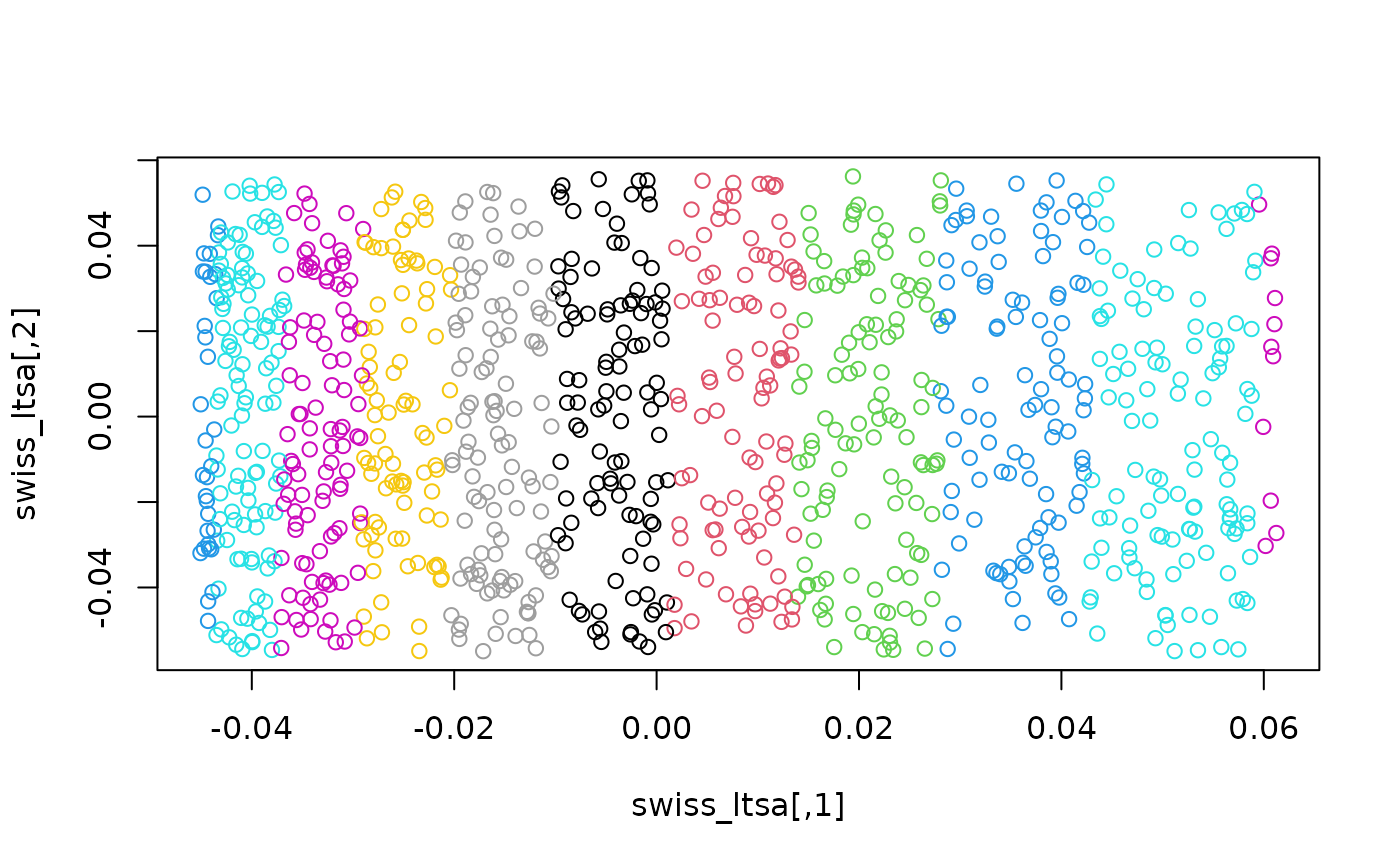
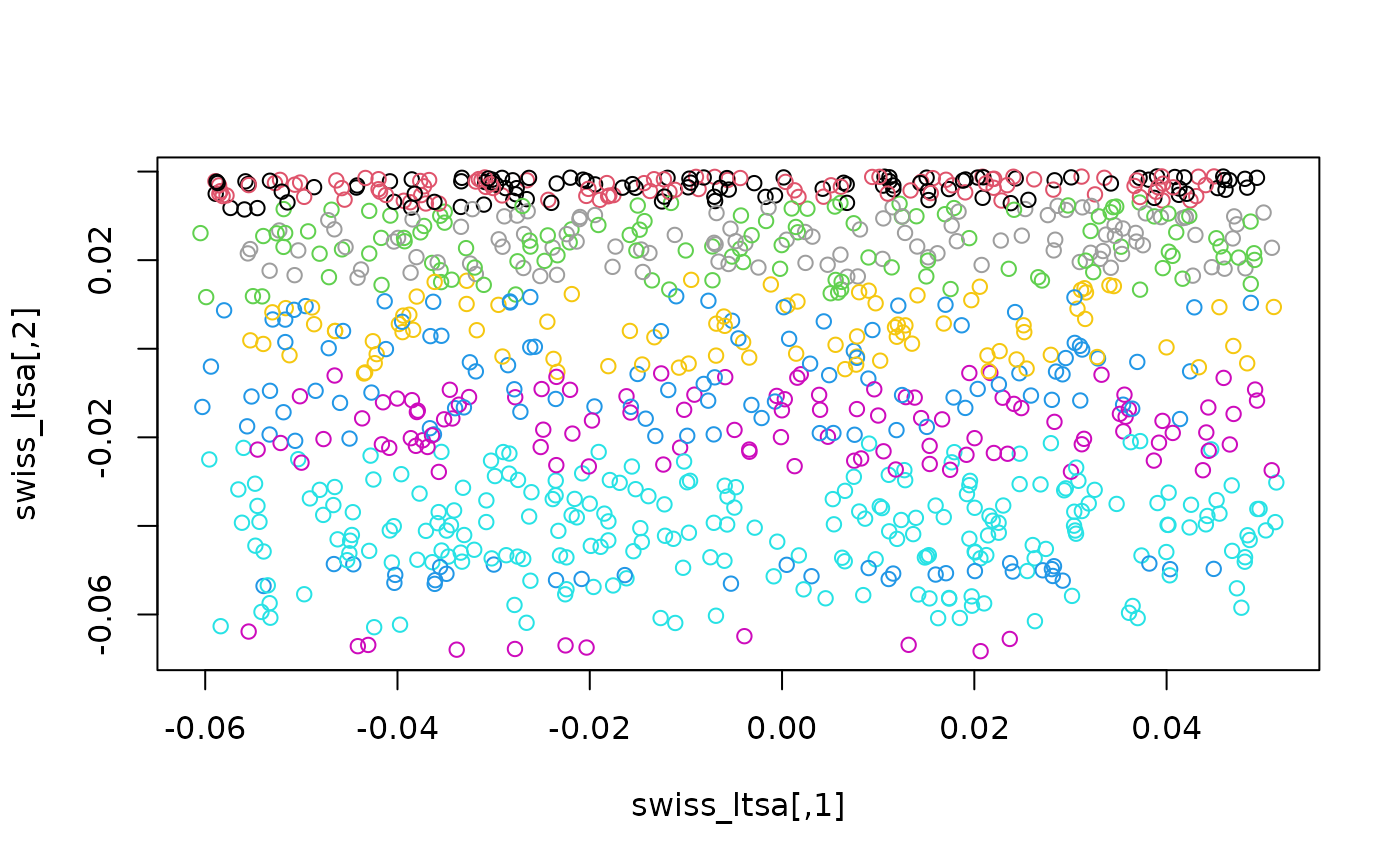
Deploying to gh-pages from @ jlmelville/flotsam@29c9ebd6ee8cff15cb02c2cbab4824aaa4ad3809 🚀

diff --git a/reference/flotsam-package.html b/reference/flotsam-package.html
@@ -1,0 +1,81 @@
+<!DOCTYPE html>
+<!-- Generated by pkgdown: do not edit by hand --><html lang="en"><head><meta http-equiv="Content-Type" content="text/html; charset=UTF-8"><meta charset="utf-8"><meta http-equiv="X-UA-Compatible" content="IE=edge"><meta name="viewport" content="width=device-width, initial-scale=1, shrink-to-fit=no"><title>flotsam: Local Tangent Space Alignment — flotsam-package • flotsam</title><script src="../deps/jquery-3.6.0/jquery-3.6.0.min.js"></script><meta name="viewport" content="width=device-width, initial-scale=1, shrink-to-fit=no"><link href="../deps/bootstrap-5.3.8/bootstrap.min.css" rel="stylesheet"><script src="../deps/bootstrap-5.3.8/bootstrap.bundle.min.js"></script><link href="../deps/font-awesome-6.5.2/css/all.min.css" rel="stylesheet"><link href="../deps/font-awesome-6.5.2/css/v4-shims.min.css" rel="stylesheet"><script src="../deps/headroom-0.11.0/headroom.min.js"></script><script src="../deps/headroom-0.11.0/jQuery.headroom.min.js"></script><script src="../deps/bootstrap-toc-1.0.1/bootstrap-toc.min.js"></script><script src="../deps/clipboard.js-2.0.11/clipboard.min.js"></script><script src="../deps/search-1.0.0/autocomplete.jquery.min.js"></script><script src="../deps/search-1.0.0/fuse.min.js"></script><script src="../deps/search-1.0.0/mark.min.js"></script><!-- pkgdown --><script src="../pkgdown.js"></script><meta property="og:title" content="flotsam: Local Tangent Space Alignment — flotsam-package"><meta name="description" content="flotsam implements Local Tangent Space Alignment (LTSA) for nonlinear
+dimensionality reduction."><meta property="og:description" content="flotsam implements Local Tangent Space Alignment (LTSA) for nonlinear
+dimensionality reduction."></head><body>
+    <a href="#main" class="visually-hidden-focusable">Skip to contents</a>
+
+
+    <nav class="navbar navbar-expand-lg fixed-top bg-light" data-bs-theme="light" aria-label="Site navigation"><div class="container">
+
+    <a class="navbar-brand me-2" href="../index.html">flotsam</a>
+
+    <small class="nav-text text-muted me-auto" data-bs-toggle="tooltip" data-bs-placement="bottom" title="">0.0.0.9001</small>
+
+
+    <button class="navbar-toggler" type="button" data-bs-toggle="collapse" data-bs-target="#navbar" aria-controls="navbar" aria-expanded="false" aria-label="Toggle navigation">
+      <span class="navbar-toggler-icon"></span>
+    </button>
+
+    <div id="navbar" class="collapse navbar-collapse ms-3">
+      <ul class="navbar-nav me-auto"><li class="active nav-item"><a class="nav-link" href="../reference/index.html">Reference</a></li>
+<li class="nav-item"><a class="nav-link" href="../news/index.html">Changelog</a></li>
+      </ul><ul class="navbar-nav"><li class="nav-item"><form class="form-inline" role="search">
+ <input class="form-control" type="search" name="search-input" id="search-input" autocomplete="off" aria-label="Search site" placeholder="Search for" data-search-index="../search.json"></form></li>
+<li class="nav-item"><a class="external-link nav-link" href="https://github.com/jlmelville/flotsam/" aria-label="GitHub"><span class="fa fab fa-github fa-lg"></span></a></li>
+      </ul></div>
+
+
+  </div>
+</nav><div class="container template-reference-topic">
+<div class="row">
+  <main id="main" class="col-md-9"><div class="page-header">
+
+      <h1>flotsam: Local Tangent Space Alignment</h1>
+      <small class="dont-index">Source: <a href="https://github.com/jlmelville/flotsam/blob/main/R/flotsam-package.R" class="external-link"><code>R/flotsam-package.R</code></a></small>
+      <div class="d-none name"><code>flotsam-package.Rd</code></div>
+    </div>
+
+    <div class="ref-description section level2">
+    <p><code>flotsam</code> implements Local Tangent Space Alignment (LTSA) for nonlinear
+dimensionality reduction.</p>
+    </div>
+
+
+    <div class="section level2">
+    <h2 id="details">Details<a class="anchor" aria-label="anchor" href="#details"></a></h2>
+    <p>The main entry point is <code><a href="ltsa.html">ltsa()</a></code>. It accepts numeric matrices and data frames
+with observations in rows.</p>
+    </div>
+    <div class="section level2">
+    <h2 id="see-also">See also<a class="anchor" aria-label="anchor" href="#see-also"></a></h2>
+    <div class="dont-index"><p>Useful links:</p><ul><li><p><a href="https://jlmelville.github.io/flotsam/">https://jlmelville.github.io/flotsam/</a></p></li>
+<li><p><a href="https://github.com/jlmelville/flotsam" class="external-link">https://github.com/jlmelville/flotsam</a></p></li>
+<li><p>Report bugs at <a href="https://github.com/jlmelville/flotsam/issues" class="external-link">https://github.com/jlmelville/flotsam/issues</a></p></li>
+</ul></div>
+    </div>
+    <div class="section level2">
+    <h2 id="author">Author<a class="anchor" aria-label="anchor" href="#author"></a></h2>
+    <p><strong>Maintainer</strong>: James Melville <a href="mailto:[email redacted]">[email redacted]</a> [copyright holder]</p>
+<p>Authors:</p><ul><li><p>James Melville <a href="mailto:[email redacted]">[email redacted]</a> [copyright holder]</p></li>
+</ul></div>
+
+  </main><aside class="col-md-3"><nav id="toc" aria-label="Table of contents"><h2>On this page</h2>
+    </nav></aside></div>
+
+
+    <footer><div class="pkgdown-footer-left">
+  <p>Developed by James Melville.</p>
+</div>
+
+<div class="pkgdown-footer-right">
+  <p>Site built with <a href="https://pkgdown.r-lib.org/" class="external-link">pkgdown</a> 2.2.0.</p>
+</div>
+
+    </footer></div>
+
+
+
+
+
+  </body></html>
+

diff --git a/index.html b/index.html
@@ -22,7 +22,7 @@
 
     <a class="navbar-brand me-2" href="index.html">flotsam</a>
 
-    <small class="nav-text text-muted me-auto" data-bs-toggle="tooltip" data-bs-placement="bottom" title="">0.0.0.9000</small>
+    <small class="nav-text text-muted me-auto" data-bs-toggle="tooltip" data-bs-placement="bottom" title="">0.0.0.9001</small>
 
 
     <button class="navbar-toggler" type="button" data-bs-toggle="collapse" data-bs-target="#navbar" aria-controls="navbar" aria-expanded="false" aria-label="Toggle navigation">
@@ -106,23 +106,24 @@
 <div class="section level2">
 <h2 id="current-status">Current Status<a class="anchor" aria-label="anchor" href="#current-status"></a>
 </h2>
+<p><em>June 14 2026</em>: Version 0.0.0.9001 changes the <code>B</code> matrix assembly implementation to be modestly faster with slightly less peak memory usage.</p>
 <p>Very experimental. Will it ever graduate from ‘Finicky’ to ‘Fast’? Its speed relies on the interaction of:</p>
 <ul>
 <li>Using approximate nearest neighbors to define the local neighborhoods.</li>
 <li>Using a <a href="https://cran.r-project.org/package=Matrix" class="external-link">sparse matrix</a> representation of <code>B</code>.</li>
-<li>Using truncated SVD via <a href="https://cran.r-project.org/package=irlba" class="external-link">irlba</a> to calculate <code>W</code>.</li>
-<li>Using <a href="https://cran.r-project.org/package=RSpectra" class="external-link">RSpectra</a> to efficiently get the bottom eigenvectors of <code>B</code>.</li>
+<li>Using R-level dense SVD or truncated SVD via <a href="https://cran.r-project.org/package=irlba" class="external-link">irlba</a> to calculate local neighborhood weights.</li>
+<li>Using <a href="https://cran.r-project.org/package=RSpectra" class="external-link">RSpectra</a> by default to recover the small-eigenvalue directions of <code>B</code>.</li>
 </ul>
-<p>It’s not a great idea to use large values of <code>k</code> to define the neighborhoods: you will get something that approaches a “global” SVD/PCA at much greater effort. If you insist on doing this (e.g. set <code>n_neighbors = 1000</code>), the initial sparse matrix allocation can be surprisingly slow.</p>
+<p>It’s not a great idea to use large values of <code>k</code> to define the neighborhoods: you will get something that approaches a “global” SVD/PCA at much greater effort. If you insist on doing this (e.g. set <code>n_neighbors = 1000</code>), the local weight calculation and sparse matrix assembly both scale with the number of neighborhood entries, roughly <code>N * k * k</code>.</p>
 <p>The approximate nearest neighbor search (which can be exact if you want) <em>is</em> parallelized, but that’s the only thing that is.</p>
-<p>The other bottleneck is the truncated SVD for each <code>W</code>. This <em>could</em> be done in parallel, but I haven’t got round to it yet. The better your <a href="https://csantill.github.io/RPerformanceWBLAS/" class="external-link">underlying linear algebra library</a>, the better a time you will have.</p>
-<p>The final eigendecomposition of <code>B</code> can’t be done in parallel, but RSpectra is fast when it works. Please note that there a variety of failure states:</p>
+<p>The local SVD for each neighborhood is still computed from R, and the sparse matrix assembly path is serial. The better your <a href="https://csantill.github.io/RPerformanceWBLAS/" class="external-link">underlying linear algebra library</a>, the better a time you will have.</p>
+<p>The <code>n_threads</code> argument does not control the final eigenanalysis. RSpectra is fast when it works, but there are a variety of failure states:</p>
 <ul>
-<li>RSpectra doesn’t converge. You’ll see an error if this happens. This can be due to a bad choice of options, like the <code>tol</code> (the tolerance) or <code>ncv</code> (the number of Lanczos basis vectors).</li>
+<li>The solver doesn’t converge. You’ll see an <code>Eigenanalysis failed: ...</code> error that keeps the underlying solver message. This can be due to a bad choice of options, like <code>tol</code> (the tolerance), <code>ncv</code> (the number of Lanczos basis vectors for RSpectra), or equivalent controls for the selected solver.</li>
 <li>RSpectra does converge, but provides results that look weird. This could also be due to insufficiently tight convergence criteria. Some <code>B</code> matrices have several eigenvectors with very very similar eigenvalues, which will then be returned in the wrong order.</li>
 <li>RSpectra hangs, doing nothing, very slowly increasing its memory usage. This seems to happen <a href="https://github.com/yixuan/spectra/issues/126" class="external-link">during sparse factorization</a>. Unfortunately, I don’t have a solution for this.</li>
 </ul>
-<p>If you use <code>eig_method = "irlba"</code> or <code>eig_method = "svdr"</code> then different functions in irlba will be used instead of RSpectra. These are more likely to finish their calculations successfully under circumstances where RSpectra stalls, but they can require a lot more effort to give similarly converged results in other scenarios. For the same amount of CPU time, the <code>svdr</code> setting may do the better than <code>irlba</code> if you suspect there are several eigenvectors with very similar eigenvalues and the ordering is incorrect (don’t ask me how you would diagnose that in general however).</p>
+<p>If you use <code>eig_method = "irlba"</code> or <code>eig_method = "svdr"</code> then different functions in irlba will be used instead of RSpectra. These are more likely to finish their calculations successfully under circumstances where RSpectra stalls, but they can require a lot more effort to give similarly converged results in other scenarios. For the same amount of CPU time, the <code>svdr</code> setting may do better than <code>irlba</code> if you suspect there are several eigenvectors with very similar eigenvalues and the ordering is incorrect (don’t ask me how you would diagnose that in general however). For small diagnostic cases, <code>eig_method = "eig"</code> and <code>eig_method = "eigen"</code> are synonyms for base <code><a href="https://rdrr.io/r/base/eigen.html" class="external-link">eigen()</a></code>, and <code>eig_method = "fullsvd"</code> uses base <code><a href="https://rdrr.io/r/base/svd.html" class="external-link">svd()</a></code>.</p>
 </div>
 <div class="section level2">
 <h2 id="see-also">See Also<a class="anchor" aria-label="anchor" href="#see-also"></a>
@@ -182,6 +183,7 @@
 <h2 data-toc-skip>Dev status</h2>
 <ul class="list-unstyled">
 <li><a href="https://github.com/jlmelville/flotsam/actions/workflows/R-CMD-check.yaml" class="external-link"><img src="https://github.com/jlmelville/flotsam/actions/workflows/R-CMD-check.yaml/badge.svg" alt="R-CMD-check"></a></li>
+<li><a href="https://github.com/jlmelville/flotsam/actions/workflows/air.yaml" class="external-link"><img src="https://github.com/jlmelville/flotsam/actions/workflows/air.yaml/badge.svg" alt="air"></a></li>
 <li><a href="https://github.com/jlmelville/flotsam/actions/workflows/lint.yaml" class="external-link"><img src="https://github.com/jlmelville/flotsam/actions/workflows/lint.yaml/badge.svg" alt="lint"></a></li>
 <li><a href="https://app.codecov.io/gh/jlmelville/flotsam?branch=main" class="external-link"><img src="https://codecov.io/gh/jlmelville/flotsam/branch/main/graph/badge.svg" alt="Codecov test coverage"></a></li>
 </ul>

diff --git a/news/index.html b/news/index.html
@@ -7,7 +7,7 @@
 
     <a class="navbar-brand me-2" href="../index.html">flotsam</a>
 
-    <small class="nav-text text-muted me-auto" data-bs-toggle="tooltip" data-bs-placement="bottom" title="">0.0.0.9000</small>
+    <small class="nav-text text-muted me-auto" data-bs-toggle="tooltip" data-bs-placement="bottom" title="">0.0.0.9001</small>
 
 
     <button class="navbar-toggler" type="button" data-bs-toggle="collapse" data-bs-target="#navbar" aria-controls="navbar" aria-expanded="false" aria-label="Toggle navigation">
@@ -33,10 +33,17 @@
     </div>
 
     <div class="section level2">
+<h2 class="pkg-version" data-toc-text="0.0.0.9001" id="flotsam-0009001">flotsam 0.0.0.9001<a class="anchor" aria-label="anchor" href="#flotsam-0009001"></a></h2>
+<ul><li>Replaced the old sparse slot-search LTSA assembly path with the serial append/finalize C++ builder as the only internal assembly implementation. Now modestly faster and slightly less peak memory usage.</li>
+<li>Better argument validation and eigenanalysis error reporting.</li>
+<li>Updated GitHub Actions.</li>
+</ul></div>
+    <div class="section level2">
 <h2 class="pkg-version" data-toc-text="0.0.0.9000" id="flotsam-0009000">flotsam 0.0.0.9000<a class="anchor" aria-label="anchor" href="#flotsam-0009000"></a></h2>
 <ul><li>Added a <code>NEWS.md</code> file to track changes to the package.</li>
 </ul></div>
-  </main></div>
+  </main><aside class="col-md-3"><nav id="toc" aria-label="Table of contents"><h2>On this page</h2>
+    </nav></aside></div>
 
 
     <footer><div class="pkgdown-footer-left">

diff --git a/reference/flotsam.html b/reference/flotsam.html
@@ -1,0 +1,8 @@
+<html>
+  <head>
+    <meta http-equiv="refresh" content="0;URL=https://jlmelville.github.io/flotsam/reference/flotsam-package.html" />
+    <meta name="robots" content="noindex">
+    <link rel="canonical" href="https://jlmelville.github.io/flotsam/reference/flotsam-package.html">
+  </head>
+</html>
+

diff --git a/authors.html b/authors.html
@@ -7,7 +7,7 @@
 
     <a class="navbar-brand me-2" href="index.html">flotsam</a>
 
-    <small class="nav-text text-muted me-auto" data-bs-toggle="tooltip" data-bs-placement="bottom" title="">0.0.0.9000</small>
+    <small class="nav-text text-muted me-auto" data-bs-toggle="tooltip" data-bs-placement="bottom" title="">0.0.0.9001</small>
 
 
     <button class="navbar-toggler" type="button" data-bs-toggle="collapse" data-bs-target="#navbar" aria-controls="navbar" aria-expanded="false" aria-label="Toggle navigation">
@@ -46,13 +46,13 @@
 
       <p>Melville J (2026).
 <em>flotsam: Finicky LOcal Tangent Space Alignment Method</em>.
-R package version 0.0.0.9000, <a href="https://jlmelville.github.io/flotsam/">https://jlmelville.github.io/flotsam/</a>.
+R package version 0.0.0.9001, <a href="https://jlmelville.github.io/flotsam/">https://jlmelville.github.io/flotsam/</a>.
 </p>
       <pre>@Manual{,
   title = {flotsam: Finicky LOcal Tangent Space Alignment Method},
   author = {James Melville},
   year = {2026},
-  note = {R package version 0.0.0.9000},
+  note = {R package version 0.0.0.9001},
   url = {https://jlmelville.github.io/flotsam/},
 }</pre>
     </div>

diff --git a/reference/ltsa.html b/reference/ltsa.html
@@ -9,7 +9,7 @@ for dimensionality reduction."></head><body>
 
     <a class="navbar-brand me-2" href="../index.html">flotsam</a>
 
-    <small class="nav-text text-muted me-auto" data-bs-toggle="tooltip" data-bs-placement="bottom" title="">0.0.0.9000</small>
+    <small class="nav-text text-muted me-auto" data-bs-toggle="tooltip" data-bs-placement="bottom" title="">0.0.0.9001</small>
 
 
     <button class="navbar-toggler" type="button" data-bs-toggle="collapse" data-bs-target="#navbar" aria-controls="navbar" aria-expanded="false" aria-label="Toggle navigation">
@@ -62,7 +62,9 @@ for dimensionality reduction.</p>
 
 
 <dl><dt id="arg-x">X<a class="anchor" aria-label="anchor" href="#arg-x"></a></dt>
-<dd><p>The input data matrix or dataframe with one observation per row.</p></dd>
+<dd><p>The input data matrix or data frame with one observation per row. If
+a data frame is supplied, non-numeric columns are ignored. At least one
+numeric column is required.</p></dd>
 
 
 <dt id="arg-n-neighbors">n_neighbors<a class="anchor" aria-label="anchor" href="#arg-n-neighbors"></a></dt>

diff --git a/404.html b/404.html
@@ -20,7 +20,7 @@
 
     <a class="navbar-brand me-2" href="https://jlmelville.github.io/flotsam/index.html">flotsam</a>
 
-    <small class="nav-text text-muted me-auto" data-bs-toggle="tooltip" data-bs-placement="bottom" title="">0.0.0.9000</small>
+    <small class="nav-text text-muted me-auto" data-bs-toggle="tooltip" data-bs-placement="bottom" title="">0.0.0.9001</small>
 
 
     <button class="navbar-toggler" type="button" data-bs-toggle="collapse" data-bs-target="#navbar" aria-controls="navbar" aria-expanded="false" aria-label="Toggle navigation">

diff --git a/LICENSE.html b/LICENSE.html
@@ -7,7 +7,7 @@
 
     <a class="navbar-brand me-2" href="index.html">flotsam</a>
 
-    <small class="nav-text text-muted me-auto" data-bs-toggle="tooltip" data-bs-placement="bottom" title="">0.0.0.9000</small>
+    <small class="nav-text text-muted me-auto" data-bs-toggle="tooltip" data-bs-placement="bottom" title="">0.0.0.9001</small>
 
 
     <button class="navbar-toggler" type="button" data-bs-toggle="collapse" data-bs-target="#navbar" aria-controls="navbar" aria-expanded="false" aria-label="Toggle navigation">

diff --git a/reference/index.html b/reference/index.html
@@ -7,7 +7,7 @@
 
     <a class="navbar-brand me-2" href="../index.html">flotsam</a>
 
-    <small class="nav-text text-muted me-auto" data-bs-toggle="tooltip" data-bs-placement="bottom" title="">0.0.0.9000</small>
+    <small class="nav-text text-muted me-auto" data-bs-toggle="tooltip" data-bs-placement="bottom" title="">0.0.0.9001</small>
 
 
     <button class="navbar-toggler" type="button" data-bs-toggle="collapse" data-bs-target="#navbar" aria-controls="navbar" aria-expanded="false" aria-label="Toggle navigation">

diff --git a/index.md b/index.md
@@ -71,39 +71,46 @@ clear, but this is what happens:
 
 ## Current Status
 
+*June 14 2026*: Version 0.0.0.9001 changes the `B` matrix assembly
+implementation to be modestly faster with slightly less peak memory
+usage.
+
 Very experimental. Will it ever graduate from ‘Finicky’ to ‘Fast’? Its
 speed relies on the interaction of:
 
 - Using approximate nearest neighbors to define the local neighborhoods.
 - Using a [sparse matrix](https://cran.r-project.org/package=Matrix)
   representation of `B`.
-- Using truncated SVD via
-  [irlba](https://cran.r-project.org/package=irlba) to calculate `W`.
-- Using [RSpectra](https://cran.r-project.org/package=RSpectra) to
-  efficiently get the bottom eigenvectors of `B`.
+- Using R-level dense SVD or truncated SVD via
+  [irlba](https://cran.r-project.org/package=irlba) to calculate local
+  neighborhood weights.
+- Using [RSpectra](https://cran.r-project.org/package=RSpectra) by
+  default to recover the small-eigenvalue directions of `B`.
 
 It’s not a great idea to use large values of `k` to define the
 neighborhoods: you will get something that approaches a “global” SVD/PCA
 at much greater effort. If you insist on doing this (e.g. set
-`n_neighbors = 1000`), the initial sparse matrix allocation can be
-surprisingly slow.
+`n_neighbors = 1000`), the local weight calculation and sparse matrix
+assembly both scale with the number of neighborhood entries, roughly
+`N * k * k`.
 
 The approximate nearest neighbor search (which can be exact if you want)
 *is* parallelized, but that’s the only thing that is.
 
-The other bottleneck is the truncated SVD for each `W`. This *could* be
-done in parallel, but I haven’t got round to it yet. The better your
-[underlying linear algebra
-library](https://csantill.github.io/RPerformanceWBLAS/), the better a
-time you will have.
+The local SVD for each neighborhood is still computed from R, and the
+sparse matrix assembly path is serial. The better your [underlying
+linear algebra library](https://csantill.github.io/RPerformanceWBLAS/),
+the better a time you will have.
 
-The final eigendecomposition of `B` can’t be done in parallel, but
-RSpectra is fast when it works. Please note that there a variety of
-failure states:
+The `n_threads` argument does not control the final eigenanalysis.
+RSpectra is fast when it works, but there are a variety of failure
+states:
 
-- RSpectra doesn’t converge. You’ll see an error if this happens. This
-  can be due to a bad choice of options, like the `tol` (the tolerance)
-  or `ncv` (the number of Lanczos basis vectors).
+- The solver doesn’t converge. You’ll see an `Eigenanalysis failed: ...`
+  error that keeps the underlying solver message. This can be due to a
+  bad choice of options, like `tol` (the tolerance), `ncv` (the number
+  of Lanczos basis vectors for RSpectra), or equivalent controls for the
+  selected solver.
 - RSpectra does converge, but provides results that look weird. This
   could also be due to insufficiently tight convergence criteria. Some
   `B` matrices have several eigenvectors with very very similar
@@ -118,10 +125,14 @@ different functions in irlba will be used instead of RSpectra. These are
 more likely to finish their calculations successfully under
 circumstances where RSpectra stalls, but they can require a lot more
 effort to give similarly converged results in other scenarios. For the
-same amount of CPU time, the `svdr` setting may do the better than
-`irlba` if you suspect there are several eigenvectors with very similar
+same amount of CPU time, the `svdr` setting may do better than `irlba`
+if you suspect there are several eigenvectors with very similar
 eigenvalues and the ordering is incorrect (don’t ask me how you would
-diagnose that in general however).
+diagnose that in general however). For small diagnostic cases,
+`eig_method = "eig"` and `eig_method = "eigen"` are synonyms for base
+[`eigen()`](https://rdrr.io/r/base/eigen.html), and
+`eig_method = "fullsvd"` uses base
+[`svd()`](https://rdrr.io/r/base/svd.html).
 
 ## See Also
 

diff --git a/reference/flotsam-package.md b/reference/flotsam-package.md
@@ -1,0 +1,29 @@
+# flotsam: Local Tangent Space Alignment
+
+`flotsam` implements Local Tangent Space Alignment (LTSA) for nonlinear
+dimensionality reduction.
+
+## Details
+
+The main entry point is
+[`ltsa()`](https://jlmelville.github.io/flotsam/reference/ltsa.md). It
+accepts numeric matrices and data frames with observations in rows.
+
+## See also
+
+Useful links:
+
+- <https://jlmelville.github.io/flotsam/>
+
+- <https://github.com/jlmelville/flotsam>
+
+- Report bugs at <https://github.com/jlmelville/flotsam/issues>
+
+## Author
+
+**Maintainer**: James Melville <[email redacted]> \[copyright
+holder\]
+
+Authors:
+
+- James Melville <[email redacted]> \[copyright holder\]

diff --git a/news/index.md b/news/index.md
@@ -1,5 +1,14 @@
 # Changelog
 
+## flotsam 0.0.0.9001
+
+- Replaced the old sparse slot-search LTSA assembly path with the serial
+  append/finalize C++ builder as the only internal assembly
+  implementation. Now modestly faster and slightly less peak memory
+  usage.
+- Better argument validation and eigenanalysis error reporting.
+- Updated GitHub Actions.
+
 ## flotsam 0.0.0.9000
 
 - Added a `NEWS.md` file to track changes to the package.